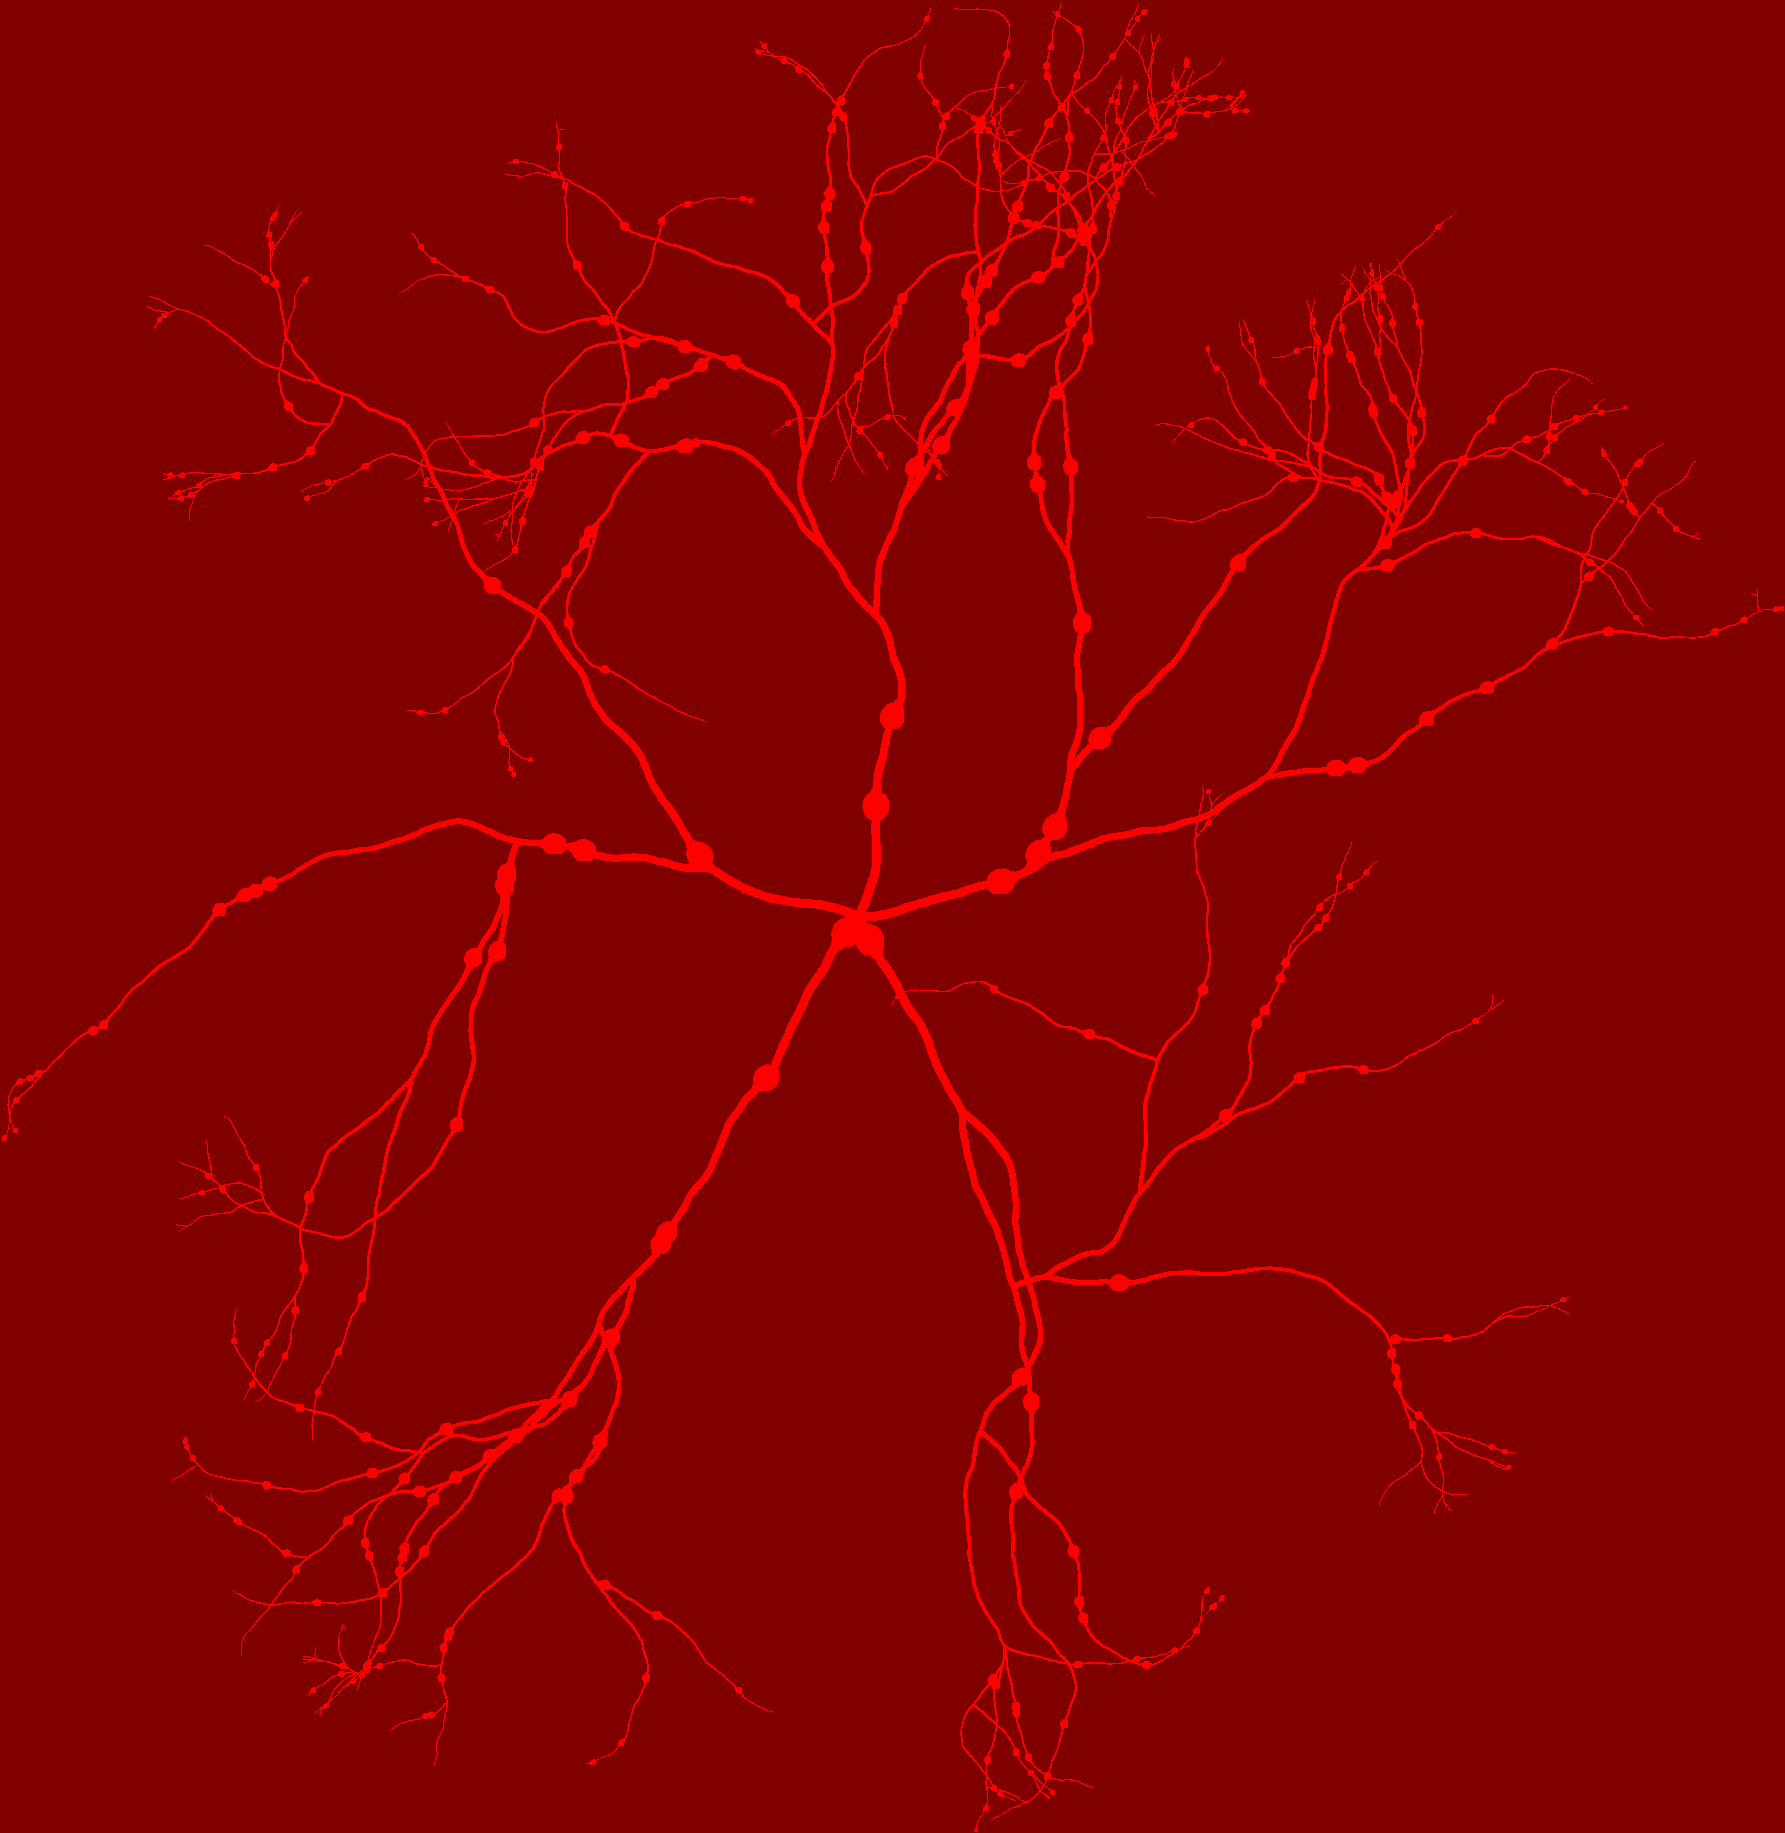
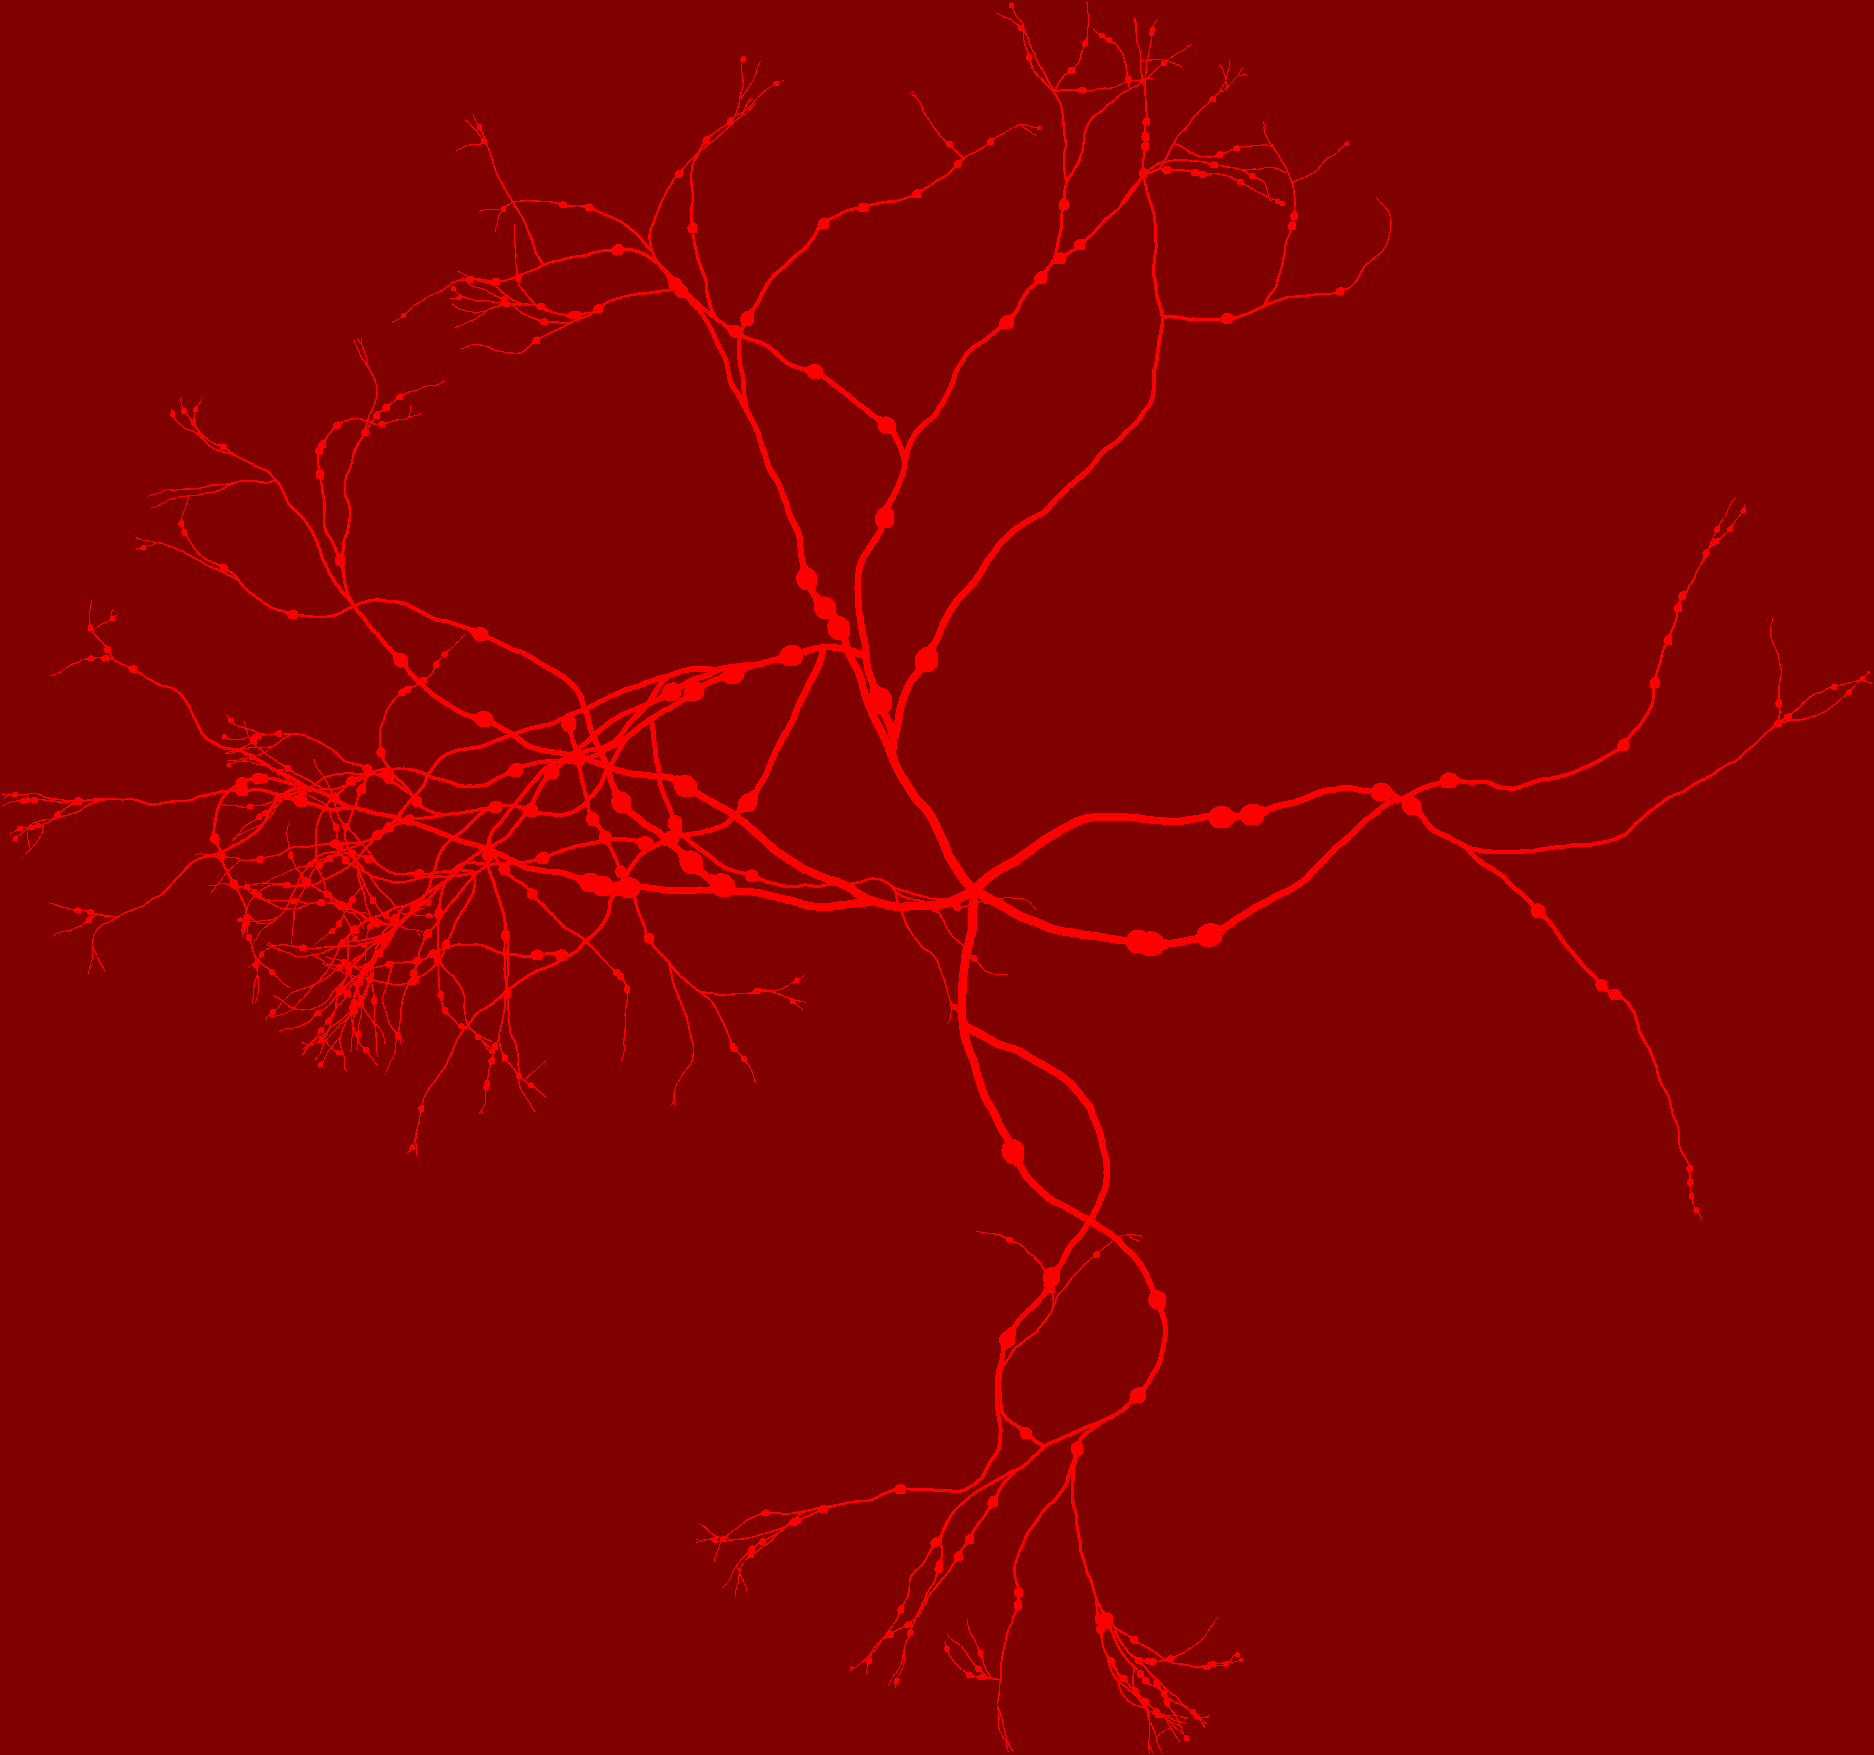
state class replaced with shorts, reduced jitter (it's still not perfect though)

diff --git a/src/client/PlayMenu.java b/src/client/PlayMenu.java
@@ -24,35 +24,39 @@ public class PlayMenu implements Menu {
 	public static OutputData data = new OutputData();
 	public static InputData clientData = new InputData();
 	
+	public double rf[][] = new double[100][100];
+	
 	public static final ArrayList<Double> R = new ArrayList<Double>(),
 			G = new ArrayList<Double>(),
 			B = new ArrayList<Double>();
-	
-	public static int pixW = 8;
 	
 	public PlayMenu() {
 		gameClient = new GameClient();
 		gameClient.start();
 		clientData.w = ClientMain.WIDTH;
 		clientData.h = ClientMain.HEIGHT;
+		for(int i = 0; i < 100; i++) {
+			for(int j = 0; j < 100; j++) {
+				rf[i][j] = 1;//Math.random();
+			}
+		}
 	}
 	
-	public Color get(State s) {
-		int id = s.type;
-		if(id == World.STATE_SPACE) return new Color((int) (190+65*s.t), 0, 0);
-		else if(id == World.STATE_WALL) return new Color((int) (65*s.t+64), 0, 0);
-		else if(id < 0) {
-			if(-id-1 >= R.size()) {
+	public Color get(short s, double t) {
+		if(s == World.STATE_SPACE) return new Color((int) (190+65*t), 0, 0);
+		else if(s == World.STATE_WALL) return new Color((int) (65*t+64), 0, 0);
+		else if(s < 0) {
+			if(-s-1 >= R.size()) {
 				do {
 					R.add(Math.cos(R.size())*127+128);
 					G.add(Math.cos(G.size()+2.09439510239)*127+128);
 					B.add(Math.cos(B.size()+4.18879020479)*127+128);
-				} while(-id-1 >= R.size());
+				} while(-s-1 >= R.size());
 			}
-			double col = (3.0+s.t)*0.25;
-			return new Color((int) (col*R.get(-id-1)),
-				(int) (col*G.get(-id-1)),
-				(int) (col*B.get(-id-1)));
+			double col = (3.0+t)*0.25;
+			return new Color((int) (col*R.get(-s-1)),
+				(int) (col*G.get(-s-1)),
+				(int) (col*B.get(-s-1)));
 		}
 		return null;
 	}
@@ -62,8 +66,8 @@ public class PlayMenu implements Menu {
 			OutputData d = data;
 			for(int i = 0; i < d.state.length; i++) {
 				for(int j = 0; j < d.state[0].length; j++) {
-					g.setColor(get(d.state[i][j]));
-					g.fillRect(i*pixW-d.sX%pixW, j*pixW-d.sY%pixW, pixW, pixW);
+					g.setColor(get(d.state[i][j], 1));//rf[(i+d.sX/ClientMain.pixW)%rf.length][(j+d.sY/ClientMain.pixW)%rf[0].length]));
+					g.fillRect(i*ClientMain.pixW-d.sX%ClientMain.pixW, j*ClientMain.pixW-d.sY%ClientMain.pixW, ClientMain.pixW, ClientMain.pixW);
 				}
 			}
 		}
@@ -75,7 +79,7 @@ public class PlayMenu implements Menu {
 		clientData.exited = ClientMain.exited;
 		clientData.dx = (Keyboard.isKeyDown(Keyboard.KEY_RIGHT) ? 1 : 0) - (Keyboard.isKeyDown(Keyboard.KEY_LEFT) ? 1 : 0);
 		clientData.dy = (Keyboard.isKeyDown(Keyboard.KEY_DOWN) ? 1 : 0) - (Keyboard.isKeyDown(Keyboard.KEY_UP) ? 1 : 0);
-		clientData.pixW = pixW;
+		clientData.pixW = ClientMain.pixW;
 		try {
 			gameClient.sendData(Serializer.serialize(clientData), GameSocket.serverIP, GameSocket.PORT);
 		} catch(Exception e) {

diff --git a/src/world/World.java b/src/world/World.java
@@ -12,18 +12,18 @@ import main.Main;
 
 public class World {
 
-	public static final int STATE_SPACE = 1, STATE_WALL = 0;
-	public static int border = 1;
+	public static final short STATE_SPACE = 1, STATE_WALL = 0;
+	public static int border = 10;
 	public static double turnAngle = 0.2 /*0<x<pi*/,
-			branchAngle = 0.45 /*0<x<pi/2*/, 
-			taper = 0.998 /*0.5<x<0.995*/,
+			branchAngle = 0.4 /*0<x<pi/2*/, 
+			taper = 0.998 /*0.5<x<0.999*/,
 			branchProb = 0.0025 /*0<x<0.025*/,
-			splitProb = 0.0025/*0<x<0.025*/,
+			splitProb = 0.0035/*0<x<0.025*/,
 			nodeProb = 0.01 /*0<x<0.06*/;
 	
 	// world test - saves what is generated to an image
 	public static void main(String[] args) {
-		int[][] world = generateWorld();
+		short[][] world = generateWorld();
 		int w = world.length, h = world[0].length;
 		System.out.println("Generation Completed, Drawing Image");
 		BufferedImage img = new BufferedImage(w, h, BufferedImage.TYPE_4BYTE_ABGR);
@@ -42,7 +42,7 @@ public class World {
 		}
 	}
 	
-	public static int[][] generateWorld() {
+	public static short[][] generateWorld() {
 		ArrayList<Circ> c = new ArrayList<Circ>();
 		startDendrite(c, 0, 0);
 		double maxX = Double.MIN_VALUE, minX = Double.MAX_VALUE, maxY = Double.MIN_VALUE, minY = Double.MAX_VALUE;
@@ -54,7 +54,7 @@ public class World {
 			if(circ.y-circ.r < minY) minY = circ.y-circ.r;
 			if(circ.y+circ.r > maxY) maxY = circ.y+circ.r;
 		}
-		int[][] world = new int[(int) (maxX-minX+border*2)][(int) (maxY-minY+border*2)];
+		short[][] world = new short[(int) (maxX-minX+border*2)][(int) (maxY-minY+border*2)];
 		for(int i = 0; i < world.length; i++) {
 			for(int j = 0; j < world[0].length; j++) {
 				world[i][j] = STATE_WALL;
@@ -98,7 +98,7 @@ public class World {
 		}
 	}
 	
-	private static void circ(int[][] world, double x, double y, double r) {
+	private static void circ(short[][] world, double x, double y, double r) {
 		for(int i = (int) Math.max(0, x-r); i < (int) Math.min(world.length, x+r); i++) {
 			for(int j = (int) Math.max(0, y-r); j < (int) Math.min(world[0].length-1, y+r); j++) {
 				if((x-i)*(x-i)+(y-j)*(y-j) < r*r)

diff --git a/src/net/ServerData.java b/src/net/ServerData.java
@@ -16,17 +16,11 @@ public class ServerData implements Serializable {
 	public int index;
 	
 	public int w, h;
-	public State[][] state;
+	public short[][] state;
 	
 	public ServerData() {
-		int[][] world = World.generateWorld();
-		w = world.length; h = world[0].length;
-		state = new State[w][h];
-		for(int i = 0; i < w; i++) {
-			for(int j = 0; j < h; j++) {
-				state[i][j] = new State(world[i][j]);
-			}
-		}
+		state = World.generateWorld();
+		w = state.length; h = state[0].length;
 	}
 	
 	public boolean processData(InputData data, InetAddress address, int port) {
@@ -60,19 +54,21 @@ public class ServerData implements Serializable {
 	public OutputData getOutputData() {
 		IndividualData id = indieData.get(index);
 		OutputData d = new OutputData();
-		d.sX = id.sX;
-		d.sY = id.sY;
-		int pw = id.clientData.pixW, dsW = id.clientData.w/pw+1, dsH = id.clientData.h/pw+1;
-		d.state = new State[(int)dsW][(int)dsH];
-		for(int i = 0; i < dsW; i++) {
-			for(int j = 0; j < dsH; j++) {
-				d.state[i][j] = getState((id.sX-id.clientData.w/2)/pw+i /* ><> */, (id.sY-id.clientData.h/2)/pw+j);
+		d.sX = id.sX-id.clientData.w/2;
+		d.sY = id.sY-id.clientData.h/2;
+		int pw = id.clientData.pixW;
+		int i0 = (id.sX-id.clientData.w/2)/pw-1, j0 = (id.sY-id.clientData.h/2)/pw-1;
+		int ie = (id.sX+id.clientData.w/2)/pw+1, je = (id.sY+id.clientData.h/2)/pw+1;
+		d.state = new short[ie-i0][je-j0];
+		for(int i = i0; i < ie; i++) {
+			for(int j = j0; j < je; j++) {
+				d.state[i-i0][j-j0] = getState(i /* ><> */, j);
 			}
 		}
 		return d;
 	}
 	
-	private State getState(double x, double y) {
+	private short getState(double x, double y) {
 		return state[(int) Math.max(Math.min(x, state.length-1),0)][(int) Math.max(Math.min(y, state[0].length-1),0)];
 	}
 	
@@ -85,7 +81,7 @@ public class ServerData implements Serializable {
 	public boolean freeAt(int x, int y) {
 		if(x < 0 || y < 0 || x >= w || y >= h)
 			return false;
-		return state[x][y].type == World.STATE_SPACE;
+		return state[x][y] == World.STATE_SPACE;
 	}
 	
 }

diff --git a/src/main/game/Player.java b/src/main/game/Player.java
@@ -9,16 +9,16 @@ import world.World;
 
 public class Player {
 	
-	public int PID;
+	public short PID;
 	public ArrayList<Integer> x = new ArrayList<Integer>(),
 			y = new ArrayList<Integer>();
 	public boolean preference;
 	
-	public Player(int ix, int iy, int PID) {
+	public Player(int ix, int iy, short PID) {
 		for(int i = 0; i < 100; i++)
 			moveTo(-1, ix, iy);
 		this.PID = PID;
-		Main.data.state[ix][iy].type = PID;
+		Main.data.state[ix][iy] = PID;
 	}
 	
 	public void update(InputData d) {
@@ -56,9 +56,9 @@ public class Player {
 	}
 	
 	public void moveTo(int id, int nx, int ny) {
-		Main.data.state[nx][ny].type = PID;
+		Main.data.state[nx][ny] = PID;
 		if(id != -1) {
-			Main.data.state[x.get(id)][y.get(id)].type = World.STATE_SPACE;
+			Main.data.state[x.get(id)][y.get(id)] = World.STATE_SPACE;
 			x.set(id, nx);
 			y.set(id, ny);
 		} else {
@@ -82,7 +82,7 @@ public class Player {
 	
 	public void destroy() {
 		for(int i = 0; i < x.size(); i++) {
-			Main.data.state[x.get(i)][y.get(i)].type = World.STATE_SPACE;
+			Main.data.state[x.get(i)][y.get(i)] = World.STATE_SPACE;
 		}
 	}
 	

diff --git a/src/net/IndividualData.java b/src/net/IndividualData.java
@@ -24,8 +24,8 @@ public class IndividualData implements Serializable {
 		do {
 			x = Main.r.nextInt(Main.data.w);
 			y = Main.r.nextInt(Main.data.h);
-		}while(Main.data.state[x][y].type != World.STATE_SPACE);
-		player = new Player(x, y, -1-index);
+		}while(Main.data.state[x][y] != World.STATE_SPACE);
+		player = new Player(x, y, (short) (-1-index));
 	}
 	
 	public void update(double dt) {

diff --git a/src/main/game/State.java b/src/main/game/State.java
@@ -6,10 +6,9 @@ public class State implements Serializable {
 	
 	private static final long serialVersionUID = -8759406448009482535L;
 	
-	public int type;
-	public double t = Math.random();
+	public short type;
 	
-	public State(int type) {
+	public State(short type) {
 		this.type = type;
 	}
 	

diff --git a/src/client/ClientMain.java b/src/client/ClientMain.java
@@ -12,7 +12,8 @@ public class ClientMain extends BasicGame {
 	
 	public static Menu menu;
 	
-	public static final int WIDTH = 400, HEIGHT = 400;
+	public static final int WIDTH = 800, HEIGHT = 800;
+	public static final int pixW = 12;
 	
 	public static boolean exited = false;
 	

diff --git a/src/net/OutputData.java b/src/net/OutputData.java
@@ -8,7 +8,7 @@ public class OutputData implements Serializable {
 
 	private static final long serialVersionUID = 26822778913446936L;
 
-	public State[][] state;
+	public short[][] state;
 	public int sX, sY;
 	
 }
